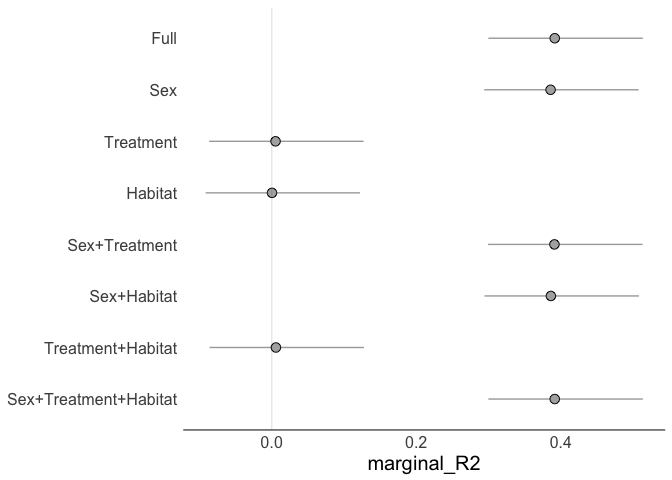
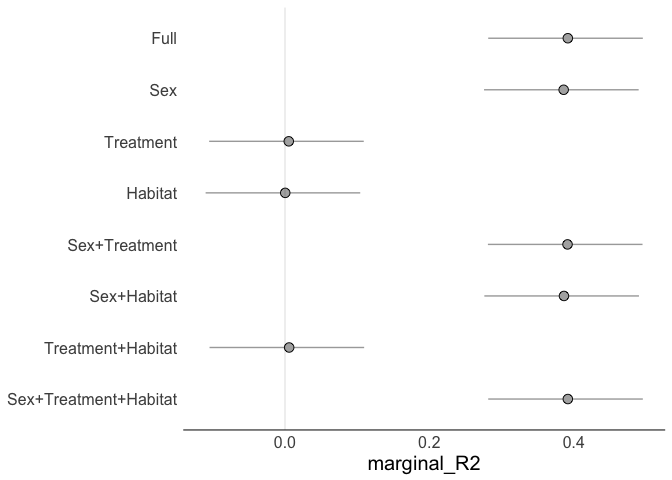
readme

diff --git a/README.md b/README.md
@@ -8,9 +8,11 @@ Status](https://travis-ci.org/mastoffel/partR2.svg?branch=master)
 The goal of partR2 is to implement methods for LMMs and GLMMs to
 estimate the R2 along with it’s confidence intervals as well as
 partition the variation explained unique to and common among certain
-predictors, which is useful in the case of multicollinearity.
+predictors, which is useful in general but particularly in the case of
+multicollinearity. All confidence intervals are estimated using
+parametric bootstrapping.
 
-partR2 is at the beginning of its development.
+partR2 is in an early phase of development.
 
 ## Installation
 
@@ -44,27 +46,27 @@ R2
 #> 
 #> R2 (marginal) and CI (95%) for the full model: 
 #>  R2    CI_lower CI_upper
-#>  0.392 0.3      0.514   
+#>  0.392 0.281    0.495   
 #> 
 #> ----------
 #> 
 #> Partitioned R2s:
 #>  Predictor(s)          R2      CI_lower CI_upper
-#>  Sex                   0.38584  0.294   0.51    
-#>  Treatment             0.00520 -0.087   0.13    
-#>  Habitat               0.00031 -0.092   0.12    
-#>  Sex+Treatment         0.39119  0.299   0.51    
-#>  Sex+Habitat           0.38626  0.294   0.51    
-#>  Treatment+Habitat     0.00573 -0.086   0.13    
-#>  Sex+Treatment+Habitat 0.39161  0.300   0.51    
+#>  Sex                   0.38584  0.28    0.49    
+#>  Treatment             0.00520 -0.11    0.11    
+#>  Habitat               0.00031 -0.11    0.10    
+#>  Sex+Treatment         0.39119  0.28    0.50    
+#>  Sex+Habitat           0.38626  0.28    0.49    
+#>  Treatment+Habitat     0.00573 -0.10    0.11    
+#>  Sex+Treatment+Habitat 0.39161  0.28    0.50    
 #> 
 #> ----------
 #> 
 #> Structure coefficients:
-#>  Predictor    r(Yhat,x) CI_lower CI_upper
-#>  SexMale      -0.7452   -0.86915 -0.627  
-#>  TreatmentExp  0.0877    0.05210  0.132  
-#>  HabitatB      0.0246   -0.00406  0.061
+#>  Predictor    r(Yhat,x) CI_lower  CI_upper
+#>  SexMale      -0.7452   -0.864314 -0.6253 
+#>  TreatmentExp  0.0877    0.048029  0.1175 
+#>  HabitatB      0.0246    0.000218  0.0666
 ```
 
 And to plot the results:
